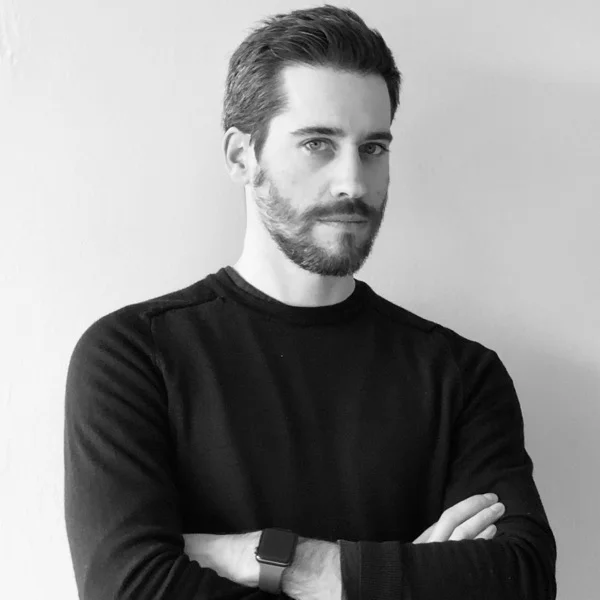
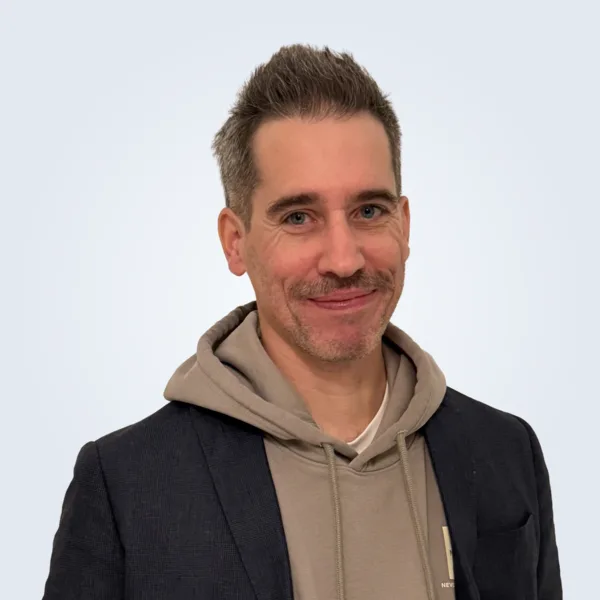
🍱 Update the profile photo with light and dark variants

diff --git a/_includes/components/image-secondary.html b/_includes/components/image-secondary.html
@@ -9,10 +9,21 @@
         <source srcset="{{ webp_url }}" type="image/webp">
         <img src="{{ img_url }}"
              alt="{{ include.image_alt | default: 'Portrait développeur' }}"
-             class="image-secondary__image"
+             class="image-secondary__image{% if include.image_dark_url %} image-secondary__image--light{% endif %}"
              {% if include.image_url == nil or include.width %}width="{{ include.width | default: 600 }}" height="{{ include.height | default: 600 }}"{% endif %}
              loading="{{ include.loading | default: 'lazy' }}"{% if include.loading == 'eager' %} fetchpriority="high"{% endif %}>
       </picture>
+      {% if include.image_dark_url %}
+      {% assign dark_webp_url = include.image_dark_url | replace: '.jpeg', '.webp' | replace: '.jpg', '.webp' | replace: '.png', '.webp' %}
+      <picture>
+        <source srcset="{{ dark_webp_url }}" type="image/webp">
+        <img src="{{ include.image_dark_url }}"
+             alt="{{ include.image_alt | default: 'Portrait développeur' }}"
+             class="image-secondary__image image-secondary__image--dark"
+             {% if include.image_url == nil or include.width %}width="{{ include.width | default: 600 }}" height="{{ include.height | default: 600 }}"{% endif %}
+             loading="{{ include.loading | default: 'lazy' }}"{% if include.loading == 'eager' %} fetchpriority="high"{% endif %}>
+      </picture>
+      {% endif %}
     </div>
     {% assign show_status = include.show_status | default: "true" %}
     {% if show_status == "true" %}

diff --git a/_includes/components/image-circle.html b/_includes/components/image-circle.html
@@ -12,10 +12,21 @@
         <source srcset="{{ webp_url }}" type="image/webp">
         <img src="{{ img_url }}"
              alt="{{ include.image_alt | default: 'Mon portrait' }}"
-             class="image-circle__image"
+             class="image-circle__image{% if include.image_dark_url %} image-circle__image--light{% endif %}"
              {% if include.image_url == nil or include.width %}width="{{ include.width | default: 600 }}" height="{{ include.height | default: 600 }}"{% endif %}
              loading="{{ include.loading | default: 'lazy' }}"{% if include.loading == 'eager' %} fetchpriority="high"{% endif %}>
       </picture>
+      {% if include.image_dark_url %}
+      {% assign dark_webp_url = include.image_dark_url | replace: '.jpeg', '.webp' | replace: '.jpg', '.webp' | replace: '.png', '.webp' %}
+      <picture>
+        <source srcset="{{ dark_webp_url }}" type="image/webp">
+        <img src="{{ include.image_dark_url }}"
+             alt="{{ include.image_alt | default: 'Mon portrait' }}"
+             class="image-circle__image image-circle__image--dark"
+             {% if include.image_url == nil or include.width %}width="{{ include.width | default: 600 }}" height="{{ include.height | default: 600 }}"{% endif %}
+             loading="{{ include.loading | default: 'lazy' }}"{% if include.loading == 'eager' %} fetchpriority="high"{% endif %}>
+      </picture>
+      {% endif %}
     </div>
     {% assign show_status = include.show_status | default: "true" %}
     {% if show_status == "true" %}

diff --git a/_sass/components/_image-secondary.scss b/_sass/components/_image-secondary.scss
@@ -39,6 +39,21 @@
   aspect-ratio: 3/4;
 }
 
+// Theme variants: light image by default, dark image under [data-theme="dark"]
+.image-secondary__image--dark {
+  display: none;
+}
+
+[data-theme="dark"] {
+  .image-secondary__image--light {
+    display: none;
+  }
+
+  .image-secondary__image--dark {
+    display: block;
+  }
+}
+
 .image-secondary__badge {
   position: absolute;
   top: -20px;

diff --git a/_layouts/cv-print.html b/_layouts/cv-print.html
@@ -162,7 +162,7 @@
 {% else %}
 <div class="cv__grid">
   <aside class="cv__side">
-    <img class="cv__avatar" src="{{ '/assets/images/avatar.jpeg' | relative_url }}" alt="Maxime Lenne">
+    <img class="cv__avatar" src="{{ '/assets/images/avatar-dark.jpeg' | relative_url }}" alt="Maxime Lenne">
 
     <section class="cv-block">
       <h2 class="cv-block__title">{{ t.contact }}</h2>

diff --git a/_sass/components/_image-circle.scss b/_sass/components/_image-circle.scss
@@ -130,6 +130,21 @@
   }
 }
 
+// Theme variants: light image by default, dark image under [data-theme="dark"]
+.image-circle__image--dark {
+  display: none;
+}
+
+[data-theme="dark"] {
+  .image-circle__image--light {
+    display: none;
+  }
+
+  .image-circle__image--dark {
+    display: block;
+  }
+}
+
 .image-circle__status {
   position: absolute;
   bottom: -20px;

diff --git a/docs/theme/COMPONENT_REFERENCE.md b/docs/theme/COMPONENT_REFERENCE.md
@@ -180,9 +180,12 @@ Image components with various styles.
 
 ```liquid
 {% include components/image-circle.html
-  src="/assets/images/avatar.jpg"
-  alt="Profile photo"
-  size="large"              # small | medium | large
+  image_url="/assets/images/avatar.jpeg"
+  image_dark_url="/assets/images/avatar-dark.jpeg"  # optional, shown under [data-theme="dark"]
+  image_alt="Profile photo"
+  width="600" height="600"
+  loading="eager"           # lazy (default) | eager
+  show_status="false"
 %}
 ```
 
@@ -192,6 +195,13 @@ Image components with various styles.
 |------|------|
 | HTML | `_includes/components/image-secondary.html` |
 | SCSS | `_sass/components/_image-secondary.scss` |
+
+Takes the same `image_url`, `image_dark_url`, `image_alt`, `width`, `height` and `loading` parameters as Image Circle.
+
+When `image_dark_url` is set, the component renders both images and CSS shows the one matching the theme toggle
+(`.{component}__image--light` / `.{component}__image--dark`). A `.webp` sibling is picked up automatically for each.
+The profile photo exists in both versions: `avatar.*` (light gradient `#F8FAFC → #E2E8F0`) and `avatar-dark.*`
+(dark gradient `#0F172A → #1E293B`).
 
 ---
 

diff --git a/index.md b/index.md
@@ -49,6 +49,7 @@ faq: true
     <div class="section__grid section__grid--2-col">
       {% include components/image-secondary.html 
          image_url="/assets/images/avatar.jpeg"
+         image_dark_url="/assets/images/avatar-dark.jpeg"
          width="600" height="600"
          image_alt="Portrait développeur"
          show_badge="true"

diff --git a/en/index.md b/en/index.md
@@ -51,6 +51,7 @@ faq: true
     <div class="section__grid section__grid--2-col">
       {% include components/image-secondary.html 
          image_url="/assets/images/avatar.jpeg"
+         image_dark_url="/assets/images/avatar-dark.jpeg"
          width="600" height="600"
          image_alt="Developer portrait"
          show_badge="true"

diff --git a/resume.md b/resume.md
@@ -18,6 +18,7 @@ profile_page: true
       
       {% include components/image-circle.html 
         image_url="/assets/images/avatar.jpeg"
+        image_dark_url="/assets/images/avatar-dark.jpeg"
         width="600" height="600" loading="eager" 
         image_alt="Mon portrait"
         show_status="false"

diff --git a/en/resume.md b/en/resume.md
@@ -19,6 +19,7 @@ profile_page: true
       
       {% include components/image-circle.html 
         image_url="/assets/images/avatar.jpeg"
+        image_dark_url="/assets/images/avatar-dark.jpeg"
         width="600" height="600" loading="eager" 
         image_alt="My portrait"
         show_status="false"
